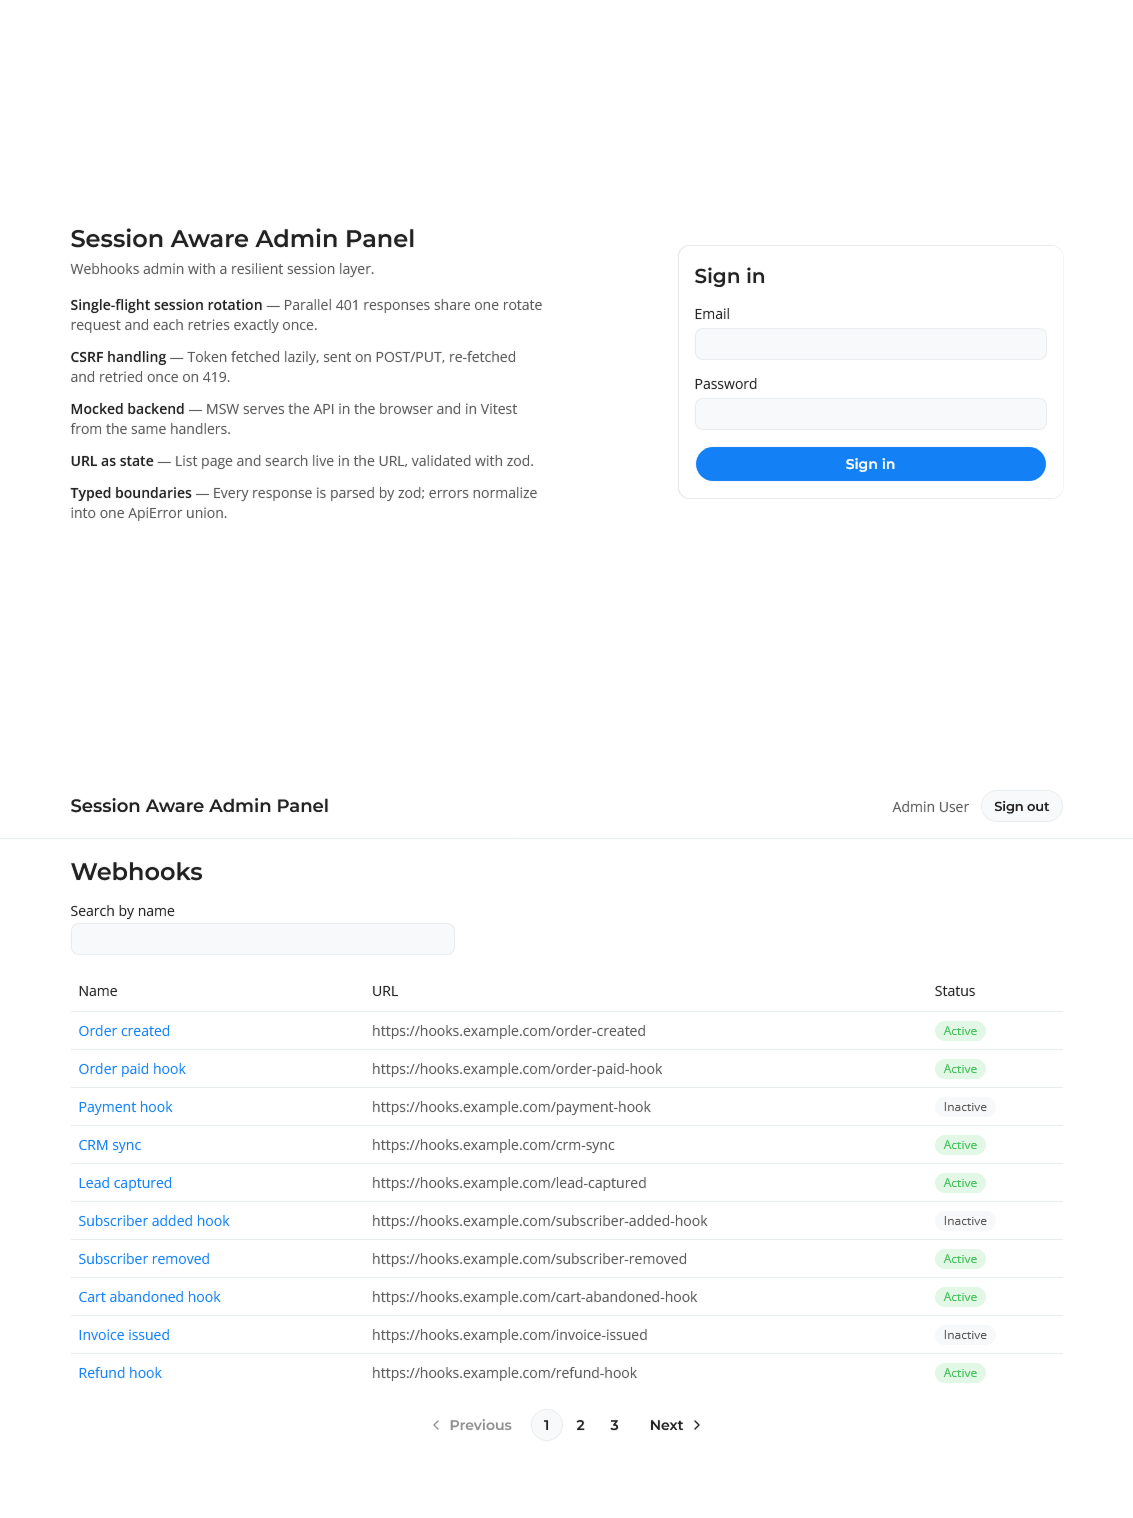
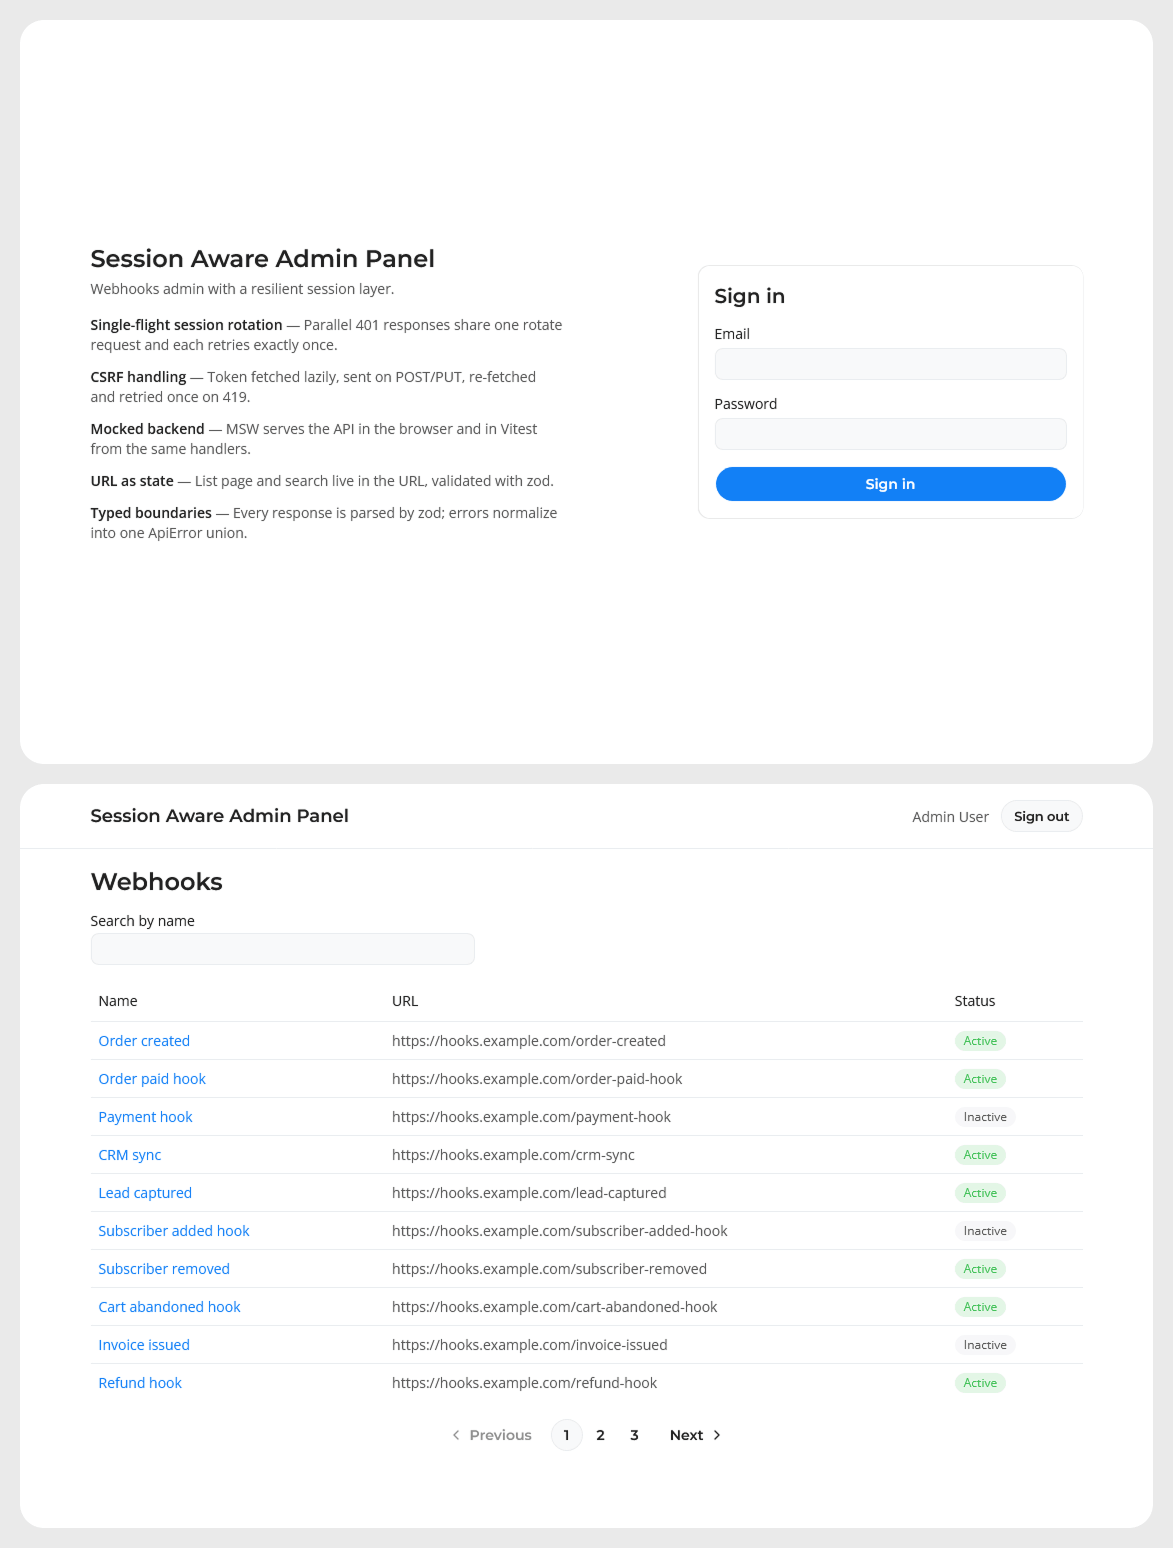
docs: rename project to Session Aware Admin Panel Architecture
Also updates the preview image and the presentation link.

diff --git a/src/app/protected-layout.tsx b/src/app/protected-layout.tsx
@@ -11,7 +11,9 @@ export function ProtectedLayout() {
     <div className="min-h-svh">
       <header className="border-b">
         <div className="mx-auto flex max-w-5xl items-center justify-between gap-4 p-4">
-          <span className="font-heading text-lg font-semibold">Session Aware Admin Panel</span>
+          <span className="font-heading text-lg font-semibold">
+            Session Aware Admin Panel Architecture
+          </span>
           <div className="flex items-center gap-3">
             <span className="text-sm text-muted-foreground">{me.name}</span>
             <Button

diff --git a/src/features/auth/feature-list.tsx b/src/features/auth/feature-list.tsx
@@ -25,7 +25,7 @@ export function FeatureList() {
   return (
     <section aria-labelledby="features-heading" className="w-full max-w-sm lg:max-w-none">
       <h1 id="features-heading" className="font-heading text-2xl font-semibold">
-        Session Aware Admin Panel
+        Session Aware Admin Panel Architecture
       </h1>
       <p className="mt-1 text-sm text-muted-foreground">
         Webhooks admin with a resilient session layer.

diff --git a/index.html b/index.html
@@ -4,7 +4,7 @@
     <meta charset="UTF-8" />
     <link rel="icon" type="image/svg+xml" href="/favicon.svg" />
     <meta name="viewport" content="width=device-width, initial-scale=1.0" />
-    <title>Session Aware Admin Panel — Webhooks</title>
+    <title>Session Aware Admin Panel Architecture — Webhooks</title>
   </head>
   <body>
     <div id="root"></div>

diff --git a/specs/001-webhooks-admin-app/tasks.md b/specs/001-webhooks-admin-app/tasks.md
@@ -1,9 +1,9 @@
 ---
 
-description: "Task list for Webhooks Admin App (Session Aware Admin Panel)"
+description: "Task list for Webhooks Admin App (Session Aware Admin Panel Architecture)"
 ---
 
-# Tasks: Webhooks Admin App (Session Aware Admin Panel)
+# Tasks: Webhooks Admin App (Session Aware Admin Panel Architecture)
 
 **Input**: Design documents from `specs/001-webhooks-admin-app/`
 
@@ -63,7 +63,7 @@ merged, and one PR.
 - [x] T009 [P] Add CI workflow `.github/workflows/ci.yml`: on `pull_request` and `push` to `main`; `actions/checkout`, `pnpm/action-setup`, `actions/setup-node` with `node-version-file: .nvmrc` and pnpm cache; `pnpm install --frozen-lockfile` (shared via the local composite action `.github/actions/setup`); top-level `permissions: contents: read`; the `lint` job also runs `prettier --check .`; **three separate jobs whose ids are exactly `typecheck`, `lint`, `test`**. These names are required status checks in the `main` branch protection, so renaming a job blocks every merge
 - [x] T010 Install Tailwind CSS v4 (`tailwindcss`, `@tailwindcss/vite`) and init shadcn/ui (`components.json` aliases exactly: `components: '@/shared'`, `ui: '@/shared/ui'`, `lib: '@/shared'`, `utils: '@/shared/cn'`, `hooks: '@/shared'` — so generated primitives land in `src/shared/ui/` and `cn` lives in `src/shared/cn.ts`, no `lib/`/`utils/` folders); add components: `button`, `input`, `label`, `table`, `card`, `skeleton`, `alert`, `sonner`, `pagination` into `src/shared/ui/`
 - [x] T011 Create theme `src/shared/theme.css` imported from `src/main.tsx`: map tokens to shadcn CSS variables — `--primary: #1380F6` (hover `#2276D2` as `--primary-hover`), `--foreground: #232323`, `--muted-foreground: #595959`, `--background: #FFFFFF`, `--card: #FFFFFF`, `--muted: #F6F7F9`, `--secondary: #FAFAFA`, `--border`/`--input: #E9ECEF`, `--destructive: #EB5757`, `--success: #40C057`; `--radius: 0.5rem`; light theme only (remove `.dark` block); fonts from `@fontsource/montserrat` (600, 700 — headings, buttons) and `@fontsource/open-sans` (400, 600 — body); make `button` variant pill-shaped (`rounded-full`) in `src/shared/ui/button.tsx`
-- [x] T012 Replace Vite demo content: `src/main.tsx` renders a placeholder `<App/>` from `src/app/app.tsx`; delete `src/App.css`, `src/assets/*`, demo `index.css` content; set `<html lang="en">` and `<title>Session Aware Admin Panel — Webhooks</title>` in `index.html`; verify `pnpm typecheck && pnpm lint && pnpm test && pnpm build` all pass
+- [x] T012 Replace Vite demo content: `src/main.tsx` renders a placeholder `<App/>` from `src/app/app.tsx`; delete `src/App.css`, `src/assets/*`, demo `index.css` content; set `<html lang="en">` and `<title>Session Aware Admin Panel Architecture — Webhooks</title>` in `index.html`; verify `pnpm typecheck && pnpm lint && pnpm test && pnpm build` all pass
 
 **Checkpoint**: an empty themed app builds. The pre-commit hook and CI both run typecheck, lint
 and test.
@@ -107,7 +107,7 @@ password field. `localStorage` contains only `fingerprint`.
 - [x] T026 [US1] Implement `src/features/auth/use-login.ts`: `useMutation` whose `mutationFn` runs `login({ email, password })` → `issueSession({ device_session_token })` with the token kept as a **local variable only** → `queryClient.query(meQueryOptions(api))` (`fetchQuery` is deprecated in TanStack Query 5.10x); returns the mutation; no token in state/URL/storage (FR-003)
 - [x] T027 [US1] Implement `src/features/auth/login-page.tsx`: react-hook-form + `zodResolver(loginInputSchema)`, fields `email` / `password` with `<Label htmlFor>`, `aria-invalid`, `aria-describedby` error ids; submit disabled while `isPending`; on `ApiError` `ValidationException` map `fields[name][0]` to `setError` for `email`/`password`, other fields or messages to `setError('root.server')`; other `ApiError` types → root error "Sign-in failed. Please try again." (exhaustive switch with `satisfies never`; `AuthenticationException` and `TokenMismatchException` are **not** handled separately — they share one fall-through branch with the other non-422 types (owned by the transport, Principle III); resubmitting is the retry, see plan.md Complexity Tracking); on success, if `search.redirect` is same-origin — `const target = new URL(redirect, window.location.origin)` and `target.origin === window.location.origin` — `navigate({ href: target.pathname + target.search, replace: true })` (a prefix check alone misses `/\evil.com`, which browsers read as `//evil.com`; `href`, because `redirect` carries the query string, which `to` does not parse), else `navigate({ to: '/webhooks', replace: true })`; show banner "Your session has expired. Please sign in again." when `search.reason === 'expired'`; English labels "Email", "Password", button "Sign in"
 - [x] T028 [US1] Implement `src/app/router.tsx` (code-based TanStack Router, `createRootRouteWithContext<{ queryClient: QueryClient; api: Api }>()`): `/` → redirect `/webhooks`; `/login` with `validateSearch` zod `{ redirect?: string, reason?: 'expired' }` (invalid → dropped) and `beforeLoad` redirecting to `/webhooks` when `queryClient.getQueryData(meQueryKey)` exists; pathless protected layout route with `beforeLoad` that throws `redirect({ to: '/login', search: { redirect: location.href } })` when `me` is not cached, otherwise returns `{ me }` into the route context (research R6, R7); `/webhooks` child with a temporary placeholder component; register router type (`declare module '@tanstack/react-router'`); `throw redirect(...)` is allowed by ESLint `only-throw-error` via an allowlist entry for `@tanstack/router-core` `Redirect`
-- [x] T029 [US1] Implement `src/app/protected-layout.tsx`: header with text wordmark "Session Aware Admin Panel", `me.name` from `Route.useRouteContext()` (no query observer on `me`, so nothing can refetch it while signing out — research R7), and `<Outlet/>`; logout button placeholder wired in US2
+- [x] T029 [US1] Implement `src/app/protected-layout.tsx`: header with text wordmark "Session Aware Admin Panel Architecture", `me.name` from `Route.useRouteContext()` (no query observer on `me`, so nothing can refetch it while signing out — research R7), and `<Outlet/>`; logout button placeholder wired in US2
 - [x] T030 [US1] Wire `src/app/app.tsx` (`QueryClientProvider`, `RouterProvider` with `context: { queryClient, api }`, `<Toaster/>` from `src/shared/ui/sonner.tsx`) and `src/main.tsx` (`await startMockWorker(API_BASE_URL)` before render **unconditionally** — the app has no real backend, so `pnpm dev`, `pnpm preview` and any deployed demo all run on MSW; only `window.__mock` stays dev-only, see T019)
 
 **Checkpoint**: US1 is fully functional, and sign-in can be shown as a demo.

diff --git a/README.md b/README.md
@@ -1,10 +1,10 @@
-# Session Aware Admin Panel
+# Session Aware Admin Panel Architecture
 
 > Session rotation, CSRF, single-flight 401 retry
 
 Live demo: https://session-aware-admin-panel.vercel.app
 
-![Session Aware Admin Panel preview](preview.png)
+![Session Aware Admin Panel Architecture preview](preview.png)
 
 A webhooks admin app (sign in, list with search and pagination, edit form) built to demonstrate a
 resilient client-side session layer. The backend is fully mocked in the browser with MSW.
@@ -13,7 +13,7 @@ resilient client-side session layer. The backend is fully mocked in the browser 
 
 ## Presentation
 
-[View the presentation](https://notebook.google.com/notebook/5b07cc19-42f2-47ce-b764-4e9a89bf822d/artifact/de4b53cc-556b-4cb2-92f8-2da71f4d73ea?utm_source=nlm_web_share&utm_medium=google_oo&utm_campaign=art_share_1&utm_content=&utm_smc=nlm_web_share_google_oo_art_share_1_)
+[View the presentation](https://notebooklm.link.google/EiiiwQojvLX6)
 
 ## Getting started
 

diff --git a/specs/001-webhooks-admin-app/contracts/ui-routes.md b/specs/001-webhooks-admin-app/contracts/ui-routes.md
@@ -9,7 +9,7 @@
 
 ## Layout
 
-- The protected layout has a header with a text wordmark "Session Aware Admin Panel", `me.name` (from the route
+- The protected layout has a header with a text wordmark "Session Aware Admin Panel Architecture", `me.name` (from the route
   context returned by the guard), and a "Sign out" button.
 - There are no global error toasts. A sonner toast "Saved" is shown only after a successful save.
 

diff --git a/specs/001-webhooks-admin-app/plan.md b/specs/001-webhooks-admin-app/plan.md
@@ -1,4 +1,4 @@
-# Implementation Plan: Webhooks Admin App (Session Aware Admin Panel)
+# Implementation Plan: Webhooks Admin App (Session Aware Admin Panel Architecture)
 
 **Branch**: `001-webhooks-admin-app` | **Date**: 2026-10-16 | **Spec**: [spec.md](./spec.md)
 

diff --git a/specs/001-webhooks-admin-app/spec.md b/specs/001-webhooks-admin-app/spec.md
@@ -1,4 +1,4 @@
-# Feature Specification: Webhooks Admin App (Session Aware Admin Panel)
+# Feature Specification: Webhooks Admin App (Session Aware Admin Panel Architecture)
 
 **Feature Branch**: `001-webhooks-admin-app`
 

diff --git a/.specify/memory/constitution.md b/.specify/memory/constitution.md
@@ -35,7 +35,7 @@ Sync Impact Report
 - Deferred TODOs: none
 -->
 
-# Session Aware Admin Panel Constitution
+# Session Aware Admin Panel Architecture Constitution
 
 ## Core Principles
 
